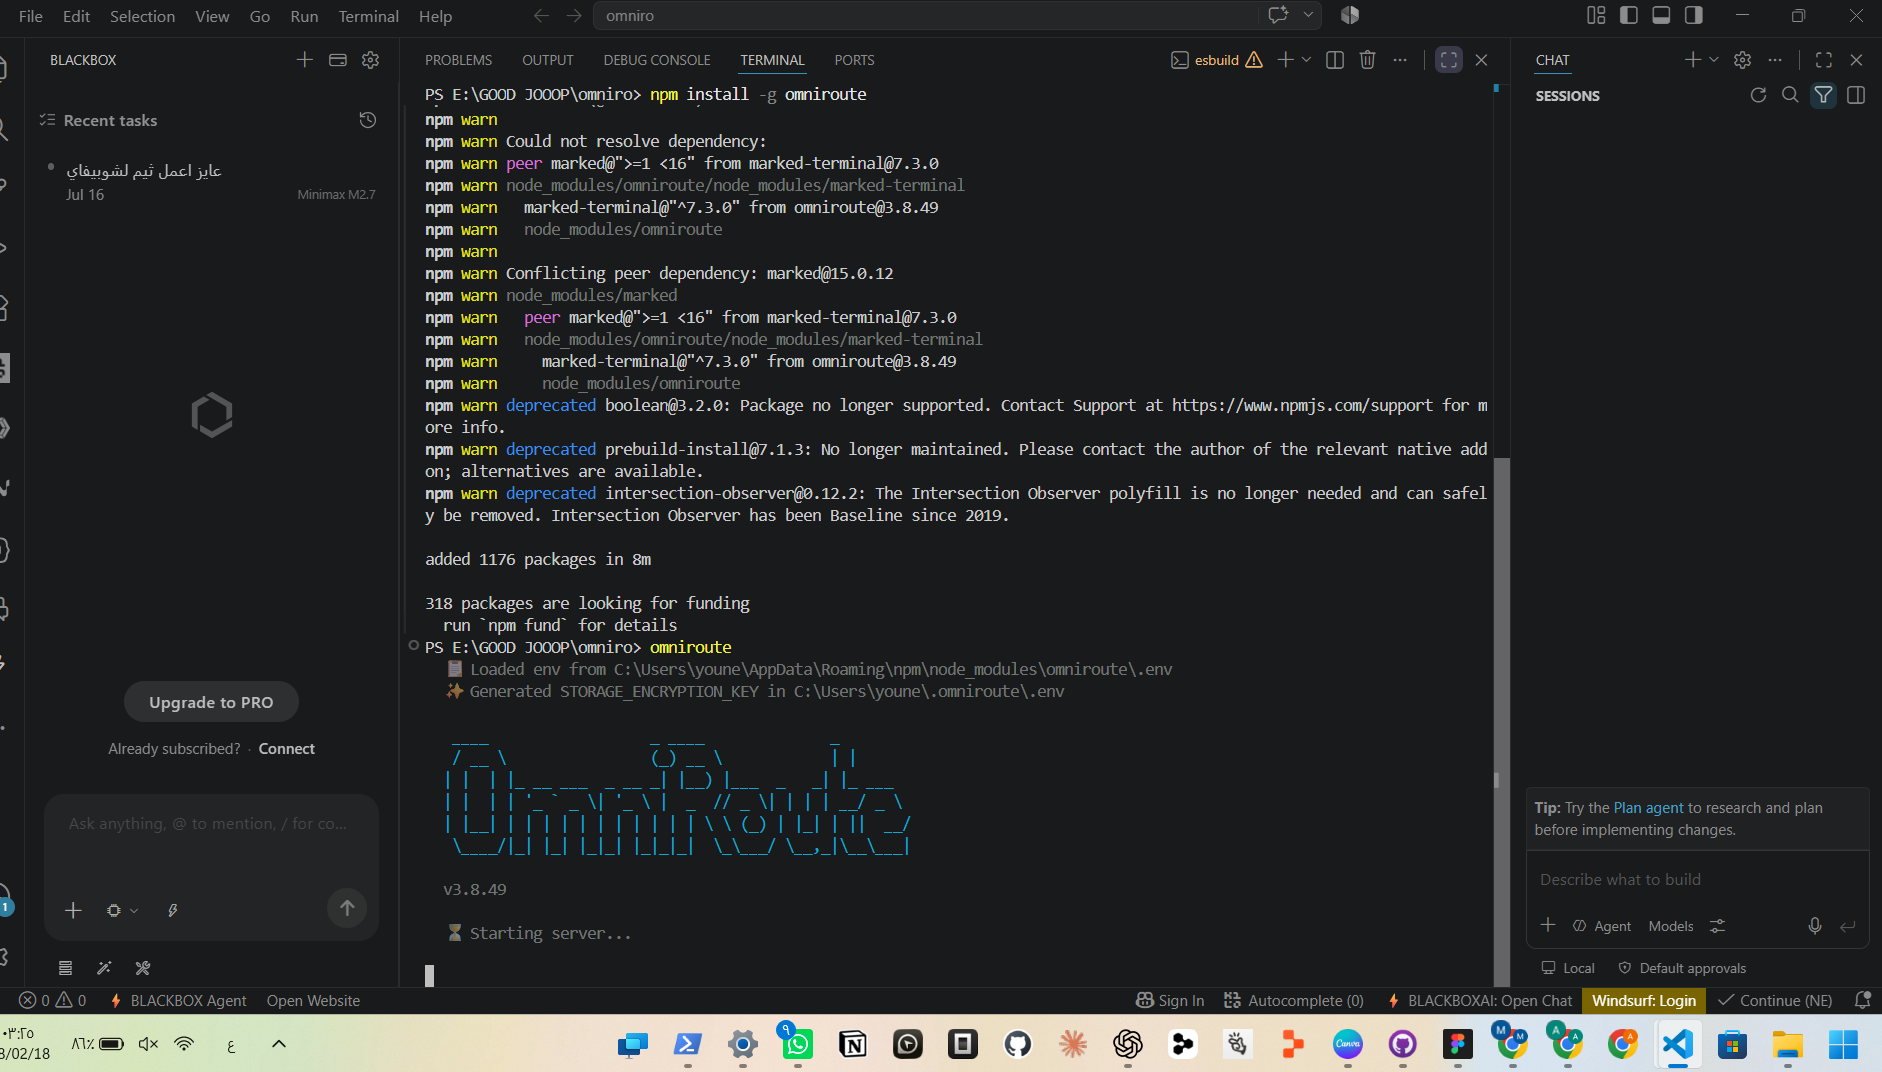
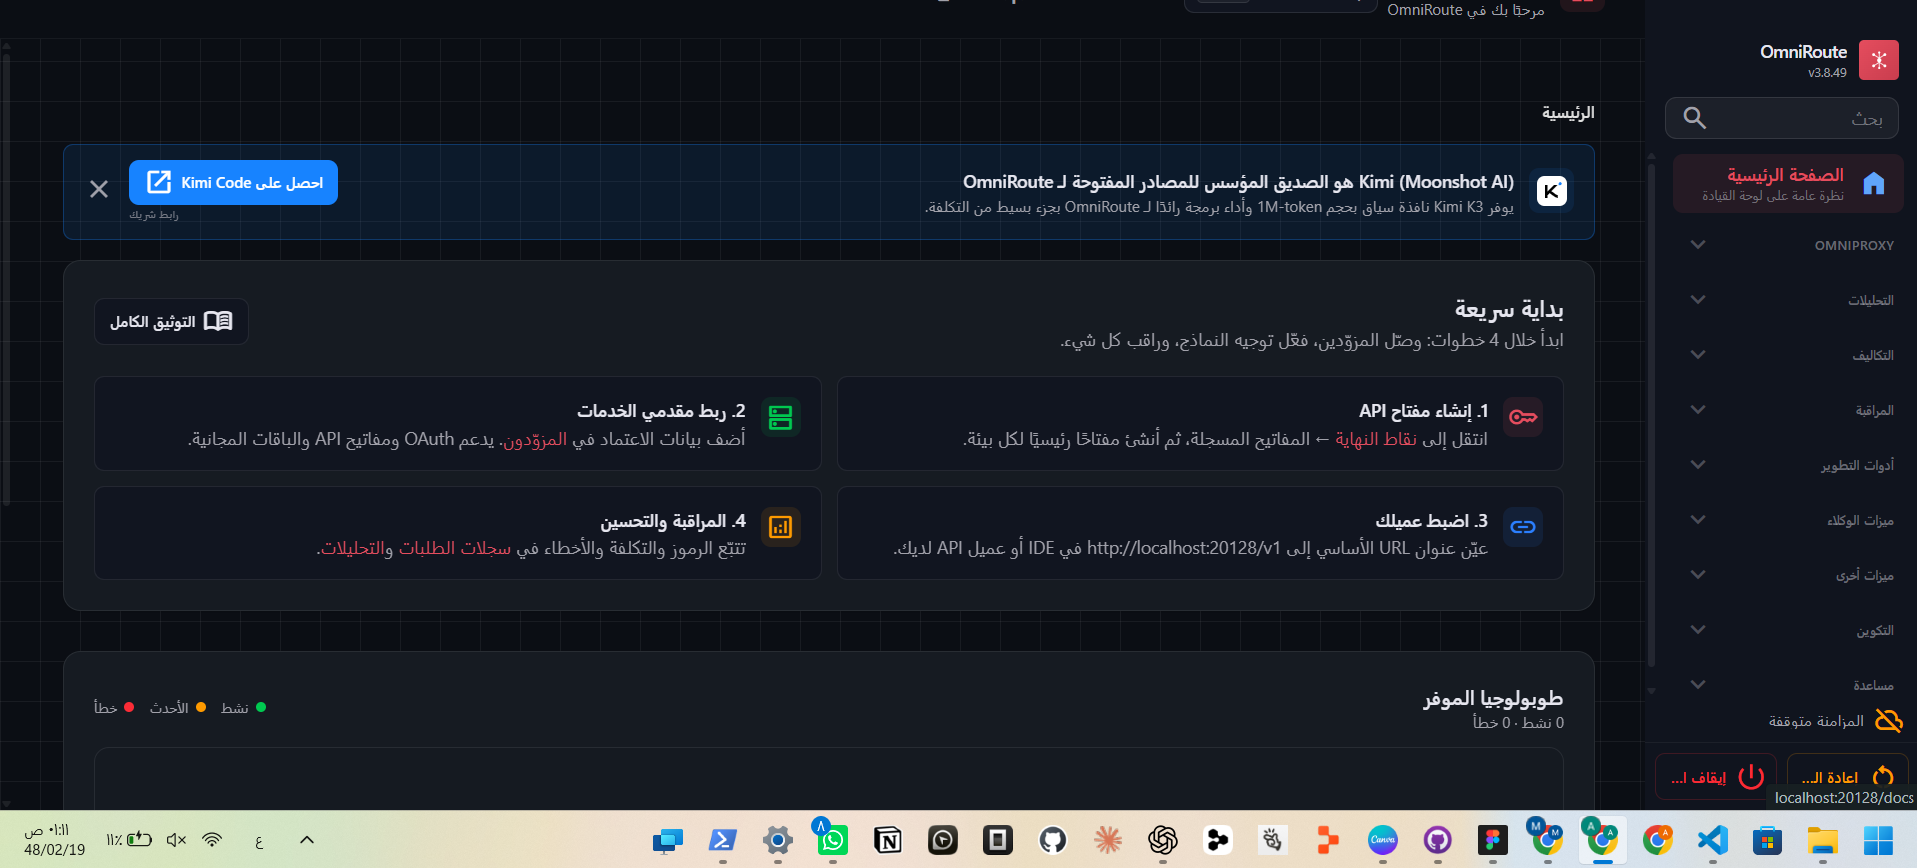
Add custom Shopify Online Store 2.0 sections and CSS styles for DISTRICT-99 luxury theme

diff --git a/shopify-custom-sections/theme-custom-styling.css b/shopify-custom-sections/theme-custom-styling.css
@@ -1,0 +1,101 @@
+/*
+  DISTRICT-99 (D99) - CUSTOM PREMIUM STYLING SHEET
+  Bespoke custom CSS styling rules to give Shopify Dawn (or any theme) a luxury, minimalist, and editorial feel (Acne Studios / SSENSE style).
+  Paste this at the bottom of your 'assets/base.css' or 'assets/theme.css' file.
+*/
+
+/* 1. Global Minimalist Reset */
+:root {
+  --buttons-radius: 0px !important;       /* Force all buttons to have sharp, luxury corners */
+  --buttons-radius-outset: 0px !important;
+  --inputs-radius: 0px !important;        /* Sharp form fields */
+  --cards-radius: 0px !important;         /* Sharp product cards */
+  --badge-corner-radius: 0px !important;  /* Sharp badges */
+}
+
+/* 2. Premium Streetwear Typography */
+body, p, span, a, input, select, textarea {
+  font-family: 'Space Grotesk', sans-serif !important;
+}
+
+h1, h2, h3, h4, h5, h6, .h1, .h2, .h3, .h4, .button, .customer-title {
+  font-family: 'Syne', 'Space Grotesk', sans-serif !important;
+  font-weight: 800 !important;
+  text-transform: uppercase !important;
+  letter-spacing: -0.01em !important;
+}
+
+/* 3. Hide Unnecessary Borders (SSENSE Editorial Look) */
+.card, .card-wrapper, .product-grid-container, .grid__item {
+  border: none !important;
+  box-shadow: none !important;
+}
+
+.card__inner {
+  border: none !important;
+  background-color: #f7f7f7 !important; /* Premium light-grey container for transparent PNG product shots */
+}
+
+/* 4. Luxury Custom Button Hover Effect */
+.button, .shopify-payment-button__button {
+  border-radius: 0px !important;
+  border: 1px solid #000000 !important;
+  background-color: #000000 !important;
+  color: #ffffff !important;
+  transition: all 0.3s cubic-bezier(0.25, 1, 0.5, 1) !important;
+  text-transform: uppercase !important;
+  font-weight: 700 !important;
+  letter-spacing: 0.1em !important;
+}
+
+.button:hover, .shopify-payment-button__button:hover {
+  background-color: #ffffff !important;
+  color: #000000 !important;
+  border-color: #000000 !important;
+}
+
+/* Secondary Buttons */
+.button--secondary {
+  background-color: #ffffff !important;
+  color: #000000 !important;
+  border: 1px solid #000000 !important;
+}
+
+.button--secondary:hover {
+  background-color: #000000 !important;
+  color: #ffffff !important;
+}
+
+/* 5. Custom "SOLD OUT" / "SALE" Badge Styling */
+.badge {
+  border-radius: 0px !important;
+  font-family: 'Space Grotesk', sans-serif !important;
+  font-weight: 700 !important;
+  text-transform: uppercase !important;
+  letter-spacing: 0.05em !important;
+  padding: 5px 12px !important;
+  border: 1px solid #000000 !important;
+}
+
+.badge--sold-out {
+  background-color: #000000 !important;
+  color: #ffffff !important;
+}
+
+.badge--sale {
+  background-color: #e50914 !important; /* DISTRICT-99 Scarlet Red */
+  color: #ffffff !important;
+  border-color: #e50914 !important;
+}
+
+/* 6. Header Styling (SSENSE Transparent Style) */
+.header-wrapper {
+  border-bottom: 1px solid rgba(0,0,0,0.05) !important;
+}
+
+.header__menu-item {
+  text-transform: uppercase !important;
+  font-weight: 700 !important;
+  font-size: 13px !important;
+  letter-spacing: 0.05em !important;
+}
